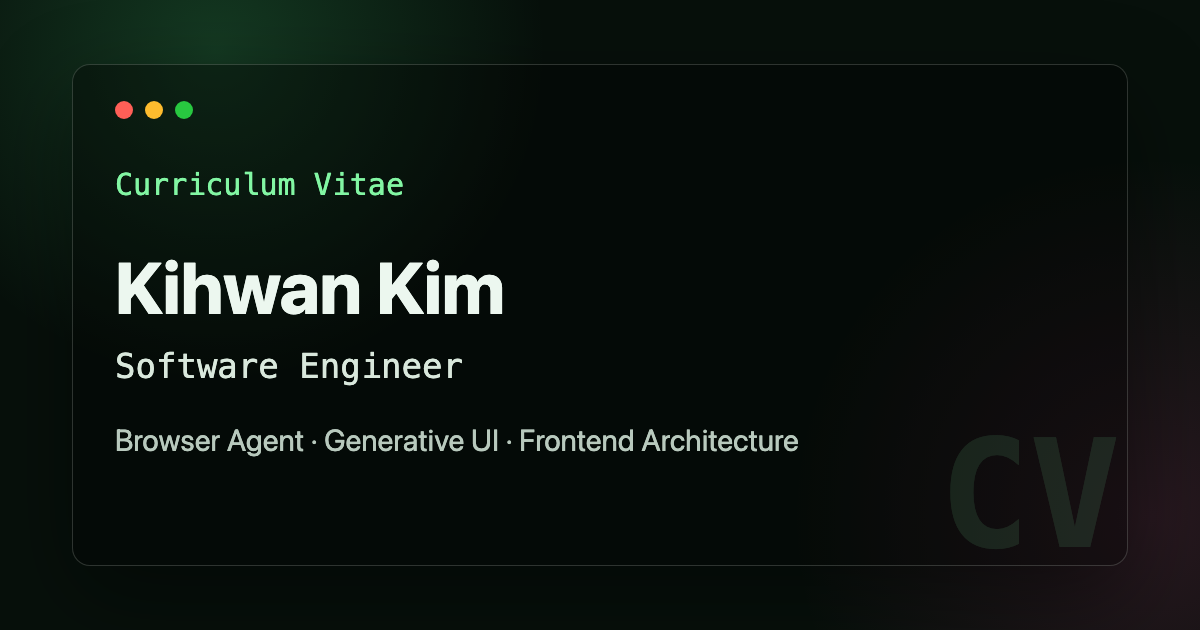
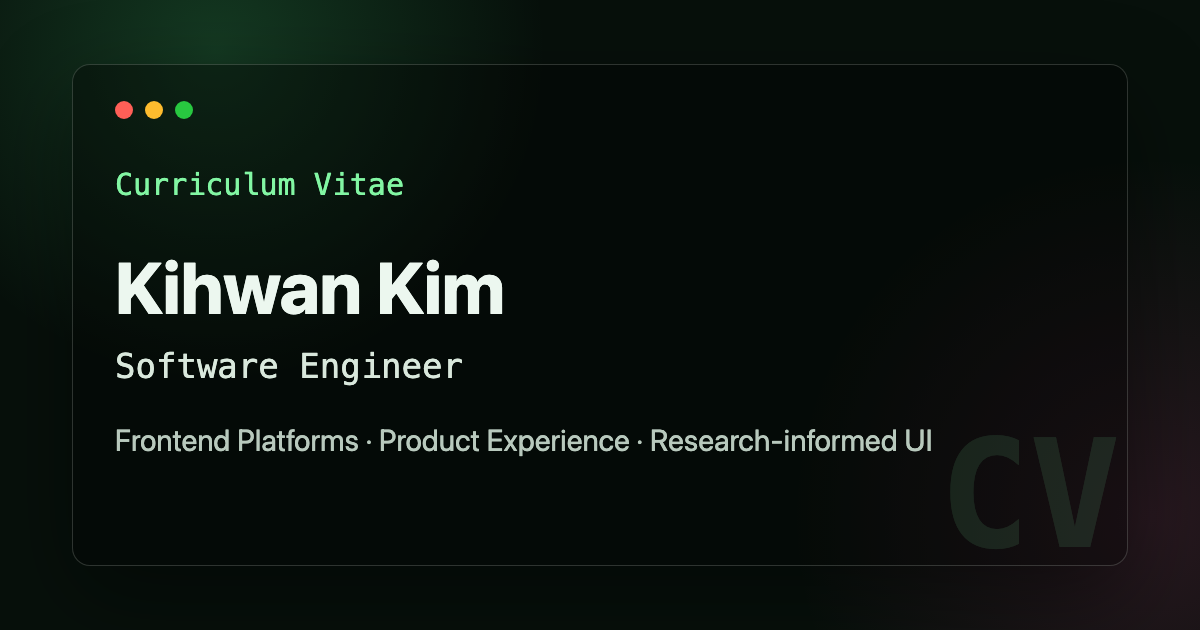
Tone down CV Open Graph copy

Changed region(s): [[0.0925, 0.6635, 0.7708, 0.7238]]

diff --git a/index.html b/index.html
@@ -6,7 +6,7 @@
     <link rel="stylesheet" as="style" crossorigin href="https://cdn.jsdelivr.net/gh/orioncactus/pretendard@v1.3.9/dist/web/static/pretendard-dynamic-subset.min.css" />
     <meta name="viewport" content="width=device-width, initial-scale=1.0" />
     <title>김기환 | 이력서</title>
-    <meta name="description" content="AI 기반 브라우저 에이전트, Generative UI, 대규모 프론트엔드 플랫폼을 다루는 소프트웨어 엔지니어 김기환의 이력서입니다." />
+    <meta name="description" content="프론트엔드 플랫폼, 제품 경험, 연구 기반 UI를 다루는 소프트웨어 엔지니어 김기환의 이력서입니다." />
   </head>
   <body>
     <div id="root"></div>
